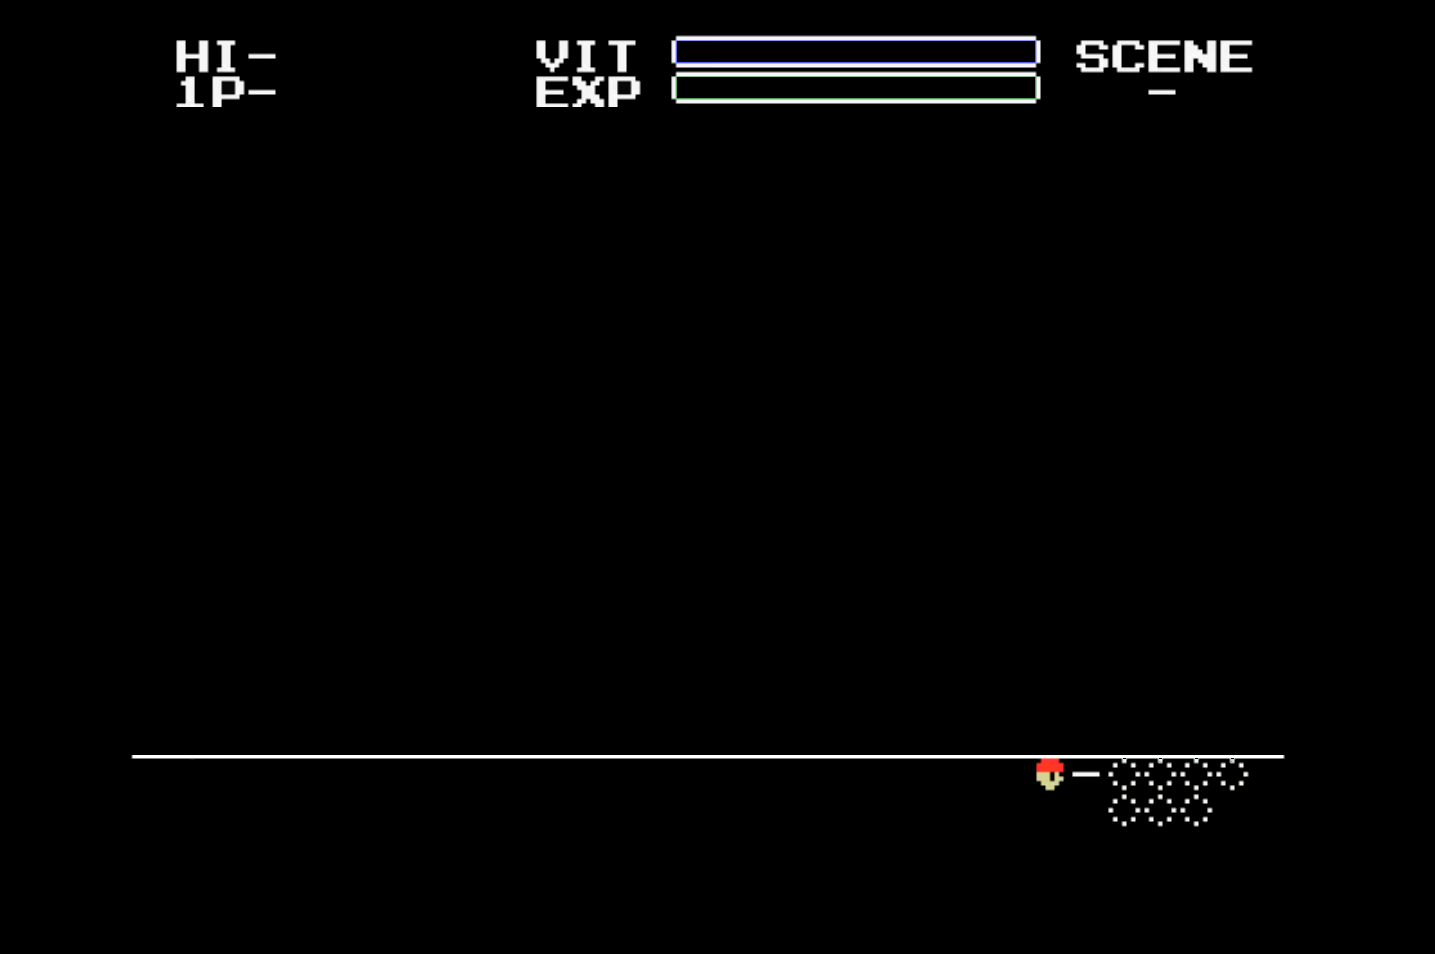
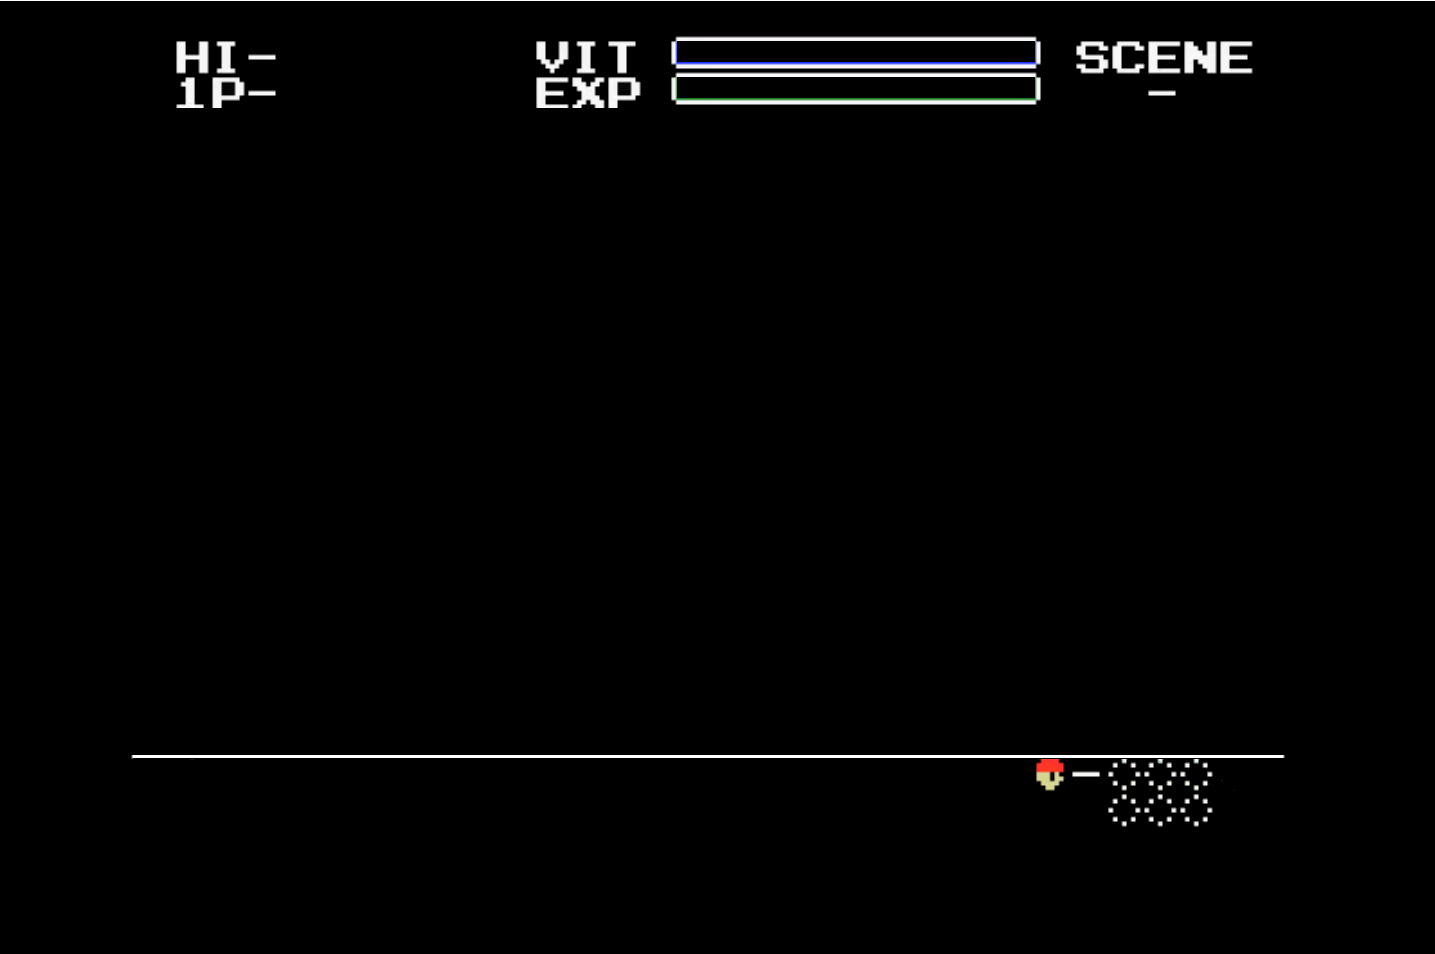
Coger friend y que aparezca en interfaz

Changed region(s): [[0.3679, 0.0304, 0.8892, 0.1216], [0.1226, 0.0608, 0.184, 0.1216], [0.8279, 0.7904, 0.8892, 0.8208]]

diff --git a/02-Bubble/GUI.cpp b/02-Bubble/GUI.cpp
@@ -53,12 +53,31 @@ void Gui::init()
 	texCoords[0] = glm::vec2(0.f, 0.0f); texCoords[1] = glm::vec2(0.5f, 0.5f); // llave
 	texQuad[13] = TexturedQuad::createTexturedQuad(geomChars, texCoords, texProgram);
 
+	texCoords[0] = glm::vec2(0.f, 0.0f); texCoords[1] = glm::vec2(0.25f, 0.25f); // amigo
+	texQuad[14] = TexturedQuad::createTexturedQuad(geomChars, texCoords, texProgram);
+
+	texCoords[0] = glm::vec2(0.f, 0.0f); texCoords[1] = glm::vec2(0.5f, 0.5f); // casco amarillo
+	texQuad[15] = TexturedQuad::createTexturedQuad(geomChars, texCoords, texProgram);
+
+	texCoords[0] = glm::vec2(0.f, 0.0f); texCoords[1] = glm::vec2(0.5f, 0.5f); // libro verde
+	texQuad[16] = TexturedQuad::createTexturedQuad(geomChars, texCoords, texProgram);
+
+	texCoords[0] = glm::vec2(0.f, 0.0f); texCoords[1] = glm::vec2(0.5f, 0.5f); // libro gris
+	texQuad[17] = TexturedQuad::createTexturedQuad(geomChars, texCoords, texProgram);
+
+	texCoords[0] = glm::vec2(0.f, 0.0f); texCoords[1] = glm::vec2(0.5f, 0.5f); // botas
+	texQuad[18] = TexturedQuad::createTexturedQuad(geomChars, texCoords, texProgram);
+
+	texCoords[0] = glm::vec2(0.f, 0.0f); texCoords[1] = glm::vec2(0.5f, 0.5f); // chubasquero gris
+	texQuad[19] = TexturedQuad::createTexturedQuad(geomChars, texCoords, texProgram);
+
 
 	// Load textures
 	tex[0].loadFromFile("images/prueba.png", TEXTURE_PIXEL_FORMAT_RGBA);
 	tex[1].loadFromFile("images/font.png", TEXTURE_PIXEL_FORMAT_RGBA);
 	tex[2].loadFromFile("images/expVida.png", TEXTURE_PIXEL_FORMAT_RGBA);
 	tex[3].loadFromFile("images/key.png", TEXTURE_PIXEL_FORMAT_RGBA);
+	tex[4].loadFromFile("images/elem_interfaz.png", TEXTURE_PIXEL_FORMAT_RGBA);
 
 
 	projection = glm::ortho(0.f, float(SCREEN_WIDTH - 1), float(SCREEN_HEIGHT - 1), 0.f);
@@ -67,6 +86,7 @@ void Gui::init()
 	int_exp = 8;
 	key = false;
 	show_key = true;
+	friends = 0;
 }
 
 void Gui::update(int deltaTime) {
@@ -543,6 +563,24 @@ void Gui::render()
 		texProgram.setUniformMatrix4f("modelview", modelview);
 		texQuad[13]->render(tex[3]);
 	}
+	int j=0;
+	for (int i = 0; i < friends; i++) {
+		if (i < 3) {
+			modelview = glm::translate(glm::mat4(1.0f), glm::vec3(float(493 + j * 16), 382.f, 0.f));
+			modelview = glm::scale(modelview, glm::vec3(0.8f, 0.8f, 1.f));
+			texProgram.setUniformMatrix4f("modelview", modelview);
+			texQuad[14]->render(tex[4]);
+			j++;
+			if (j == 3) j = 0;
+		}
+		else {
+			modelview = glm::translate(glm::mat4(1.0f), glm::vec3(float(493 + j * 16), 400.f, 0.f));
+			modelview = glm::scale(modelview, glm::vec3(0.8f, 0.8f, 1.f));
+			texProgram.setUniformMatrix4f("modelview", modelview);
+			texQuad[14]->render(tex[4]);
+			j++;
+		}
+	}
 	
 
 }
@@ -554,6 +592,14 @@ void Gui::setScene(int scene) {
 void Gui::setKey(bool key) {
 	this->key = key;
 }
+
+void Gui::setFriends(int num) {
+	this->friends = this->friends + num;
+	if (this->friends == 6) {
+		//end
+	}
+}
+
 
 bool Gui::hasKey() {
 	return key;

diff --git a/02-Bubble/Door.cpp b/02-Bubble/Door.cpp
@@ -6,7 +6,7 @@
 #include "Game.h"
 
 enum DoorState {
-	CLOSED, OPENED
+	CLOSED, OPENED, OPENED_2 
 };
 
 enum ElemState {
@@ -20,7 +20,7 @@ void Door::init(const glm::ivec2& tileMapPos, ShaderProgram& shaderProgram)
 	sprite = Sprite::createSprite(glm::ivec2(64, 64), glm::vec2(0.5f, 0.5f), &spritesheet, &shaderProgram);
 	sprite2 = Sprite::createSprite(glm::ivec2(16, 32), glm::vec2(0.5f, 0.5f), &spritesheet2, &shaderProgram);
 
-	sprite->setNumberAnimations(2);
+	sprite->setNumberAnimations(3);
 	sprite2->setNumberAnimations(2);
 
 	sprite->setAnimationSpeed(CLOSED, 1);
@@ -33,6 +33,9 @@ void Door::init(const glm::ivec2& tileMapPos, ShaderProgram& shaderProgram)
 
 	sprite->setAnimationSpeed(OPENED, 1);
 	sprite->addKeyframe(OPENED, glm::vec2(0.f, 0.f));
+
+	sprite->setAnimationSpeed(OPENED_2, 1);
+	sprite->addKeyframe(OPENED_2, glm::vec2(0.f, 0.f));
 
 	sprite->changeAnimation(CLOSED);
 	sprite->changeAnimation(A1);
@@ -98,4 +101,13 @@ bool Door::LeftMove() {
 
 bool Door::IsClimbing() {
 	return 0;
+}
+
+
+int Door::getState() {
+	return sprite->animation();
+}
+
+void Door::setState(int num) {
+	sprite->changeAnimation(num);
 }

diff --git a/02-Bubble/Scene.cpp b/02-Bubble/Scene.cpp
@@ -110,6 +110,13 @@ void Scene::update(int deltaTime)
 				}
 			}
 		}
+		//abre la puerta y coge friend
+		else if (ent[i]->getTypeEntity() == 3 && ent[i]->getState() == 1) {
+			if (/*((posEnt.x-8 - posPlayer.x) < 8 && (posEnt.x-8 - posPlayer.x) >= 0) ||*/ (((posPlayer.x - posEnt.x-8) < 12 && (posPlayer.x - posEnt.x-8) >= 0))) {
+				Gui::instance().setFriends(1);
+				ent[0]->setState(2);
+			}
+		}
 	}
 
 	//ser golpeado por enemigo -> habria que personalizar las hitbox para cada enemigo.

diff --git a/02-Bubble/Gui.h b/02-Bubble/Gui.h
@@ -25,18 +25,20 @@ public:
 	void setScene(int scene);
 
 	void setKey(bool key);
+	void setFriends(int num);
 	bool hasKey();
+
 
 private:
 	void initShaders();
 
 private:
-	TexturedQuad* texQuad[14];
-	Texture tex[4];
+	TexturedQuad* texQuad[20];
+	Texture tex[5];
 	ShaderProgram texProgram;
 	float currentTime;
 	glm::mat4 projection;
-	int scene, int_exp, old_exp;
+	int scene, int_exp, old_exp, friends;
 	bool key, show_key;
 
 };

diff --git a/02-Bubble/EntityManager.h b/02-Bubble/EntityManager.h
@@ -12,6 +12,7 @@ public:
 	virtual void render() = 0;
 	virtual int getTypeEntity() = 0;
 	virtual void open() = 0;
+	virtual void setState(int num) = 0;
 	/*
 	tipo 0 -> enemigo
 	tipo 1 -> jugador
@@ -25,6 +26,7 @@ public:
 	virtual void setPosition(const glm::vec2& pos) = 0;
 	virtual bool LeftMove() = 0; 
 	virtual bool IsClimbing() = 0;
+	virtual int getState() = 0;
 	enum EntityStates
 	{
 		SPAWNING, ALIVE, DEAD

diff --git a/02-Bubble/Player.cpp b/02-Bubble/Player.cpp
@@ -224,3 +224,12 @@ bool Player::IsClimbing() {
 	if (bClimbing) return true;
 	else return false;
 }
+
+
+int Player::getState() {
+	return sprite->animation();
+}
+
+void Player::setState(int num) {
+	sprite->animation() == num;
+}

diff --git a/02-Bubble/Player.h b/02-Bubble/Player.h
@@ -27,6 +27,10 @@ public:
 	bool LeftMove();
 
 	bool IsClimbing();
+
+	int getState();
+
+	void setState(int num);
 	
 	void setTileMap(TileMap *tileMap);
 	void setPosition(const glm::vec2 &pos);

diff --git a/02-Bubble/Portal.cpp b/02-Bubble/Portal.cpp
@@ -60,5 +60,10 @@ bool Portal::IsClimbing() {
 }
 
 
+int Portal::getState() {
+	return sprite->animation();
+}
 
-
+void Portal::setState(int num) {
+	sprite->animation() == num;
+}

diff --git a/02-Bubble/Door.h b/02-Bubble/Door.h
@@ -30,6 +30,11 @@ public:
 	bool LeftMove();
 	bool IsClimbing();
 
+	int getState();
+
+	void setState(int num);
+
+
 private:	
 	float currentTime, renderTime;
 	int goTo_level;

diff --git a/02-Bubble/Key.h b/02-Bubble/Key.h
@@ -23,6 +23,10 @@ public:
 
 	bool IsClimbing();
 
+	int getState();
+
+	void setState(int num);
+
 	void setTileMap(TileMap* tileMap);
 	void setPosition(const glm::vec2& pos);
 

diff --git a/02-Bubble/Key.cpp b/02-Bubble/Key.cpp
@@ -90,5 +90,12 @@ bool Key::IsClimbing() {
 }
 
 
+int Key::getState() {
+	return sprite->animation();
+}
+
+void Key::setState(int num) {
+	sprite->animation() == num;
+}
 
 

diff --git a/02-Bubble/Portal.h b/02-Bubble/Portal.h
@@ -34,6 +34,10 @@ public:
 
 	bool IsClimbing();
 
+	int getState();
+
+	void setState(int num);
+
 private:
 	string goTo_level;
 	glm::ivec2 tileMapDispl, posPlayer;
